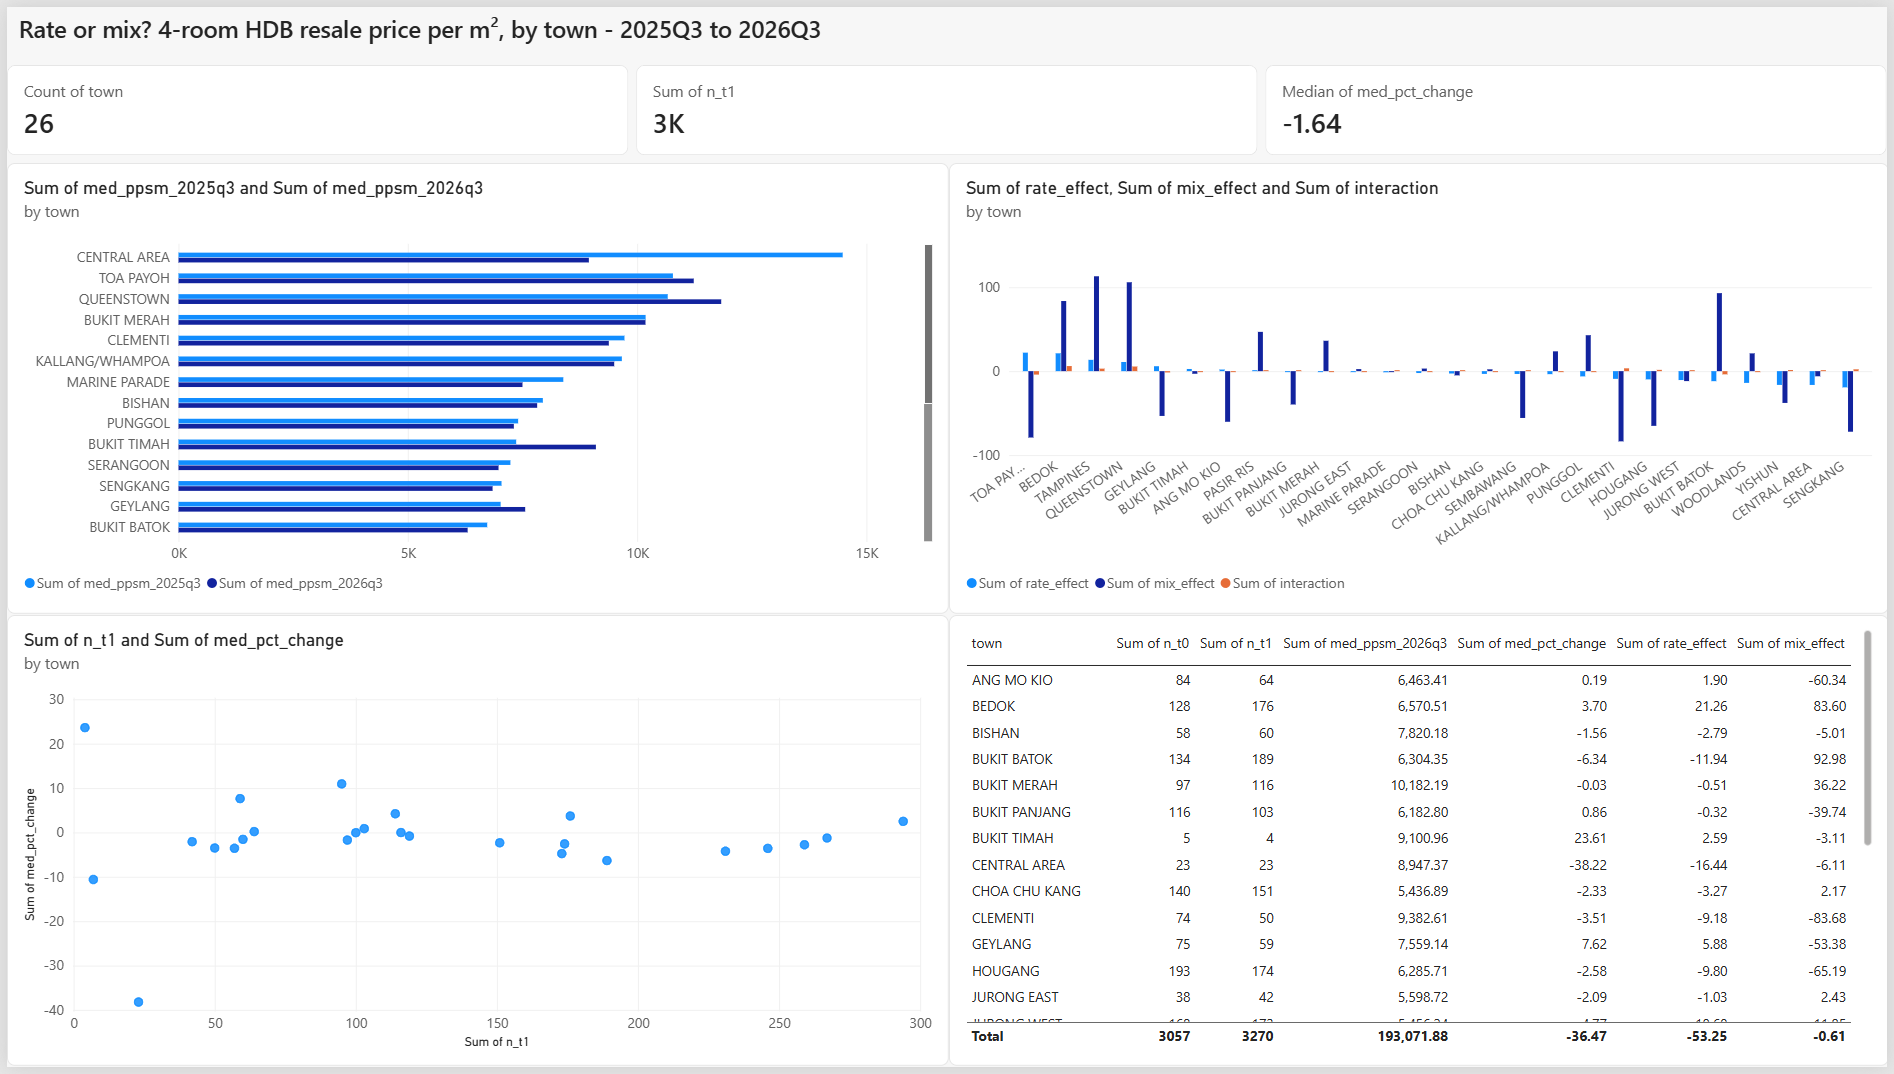
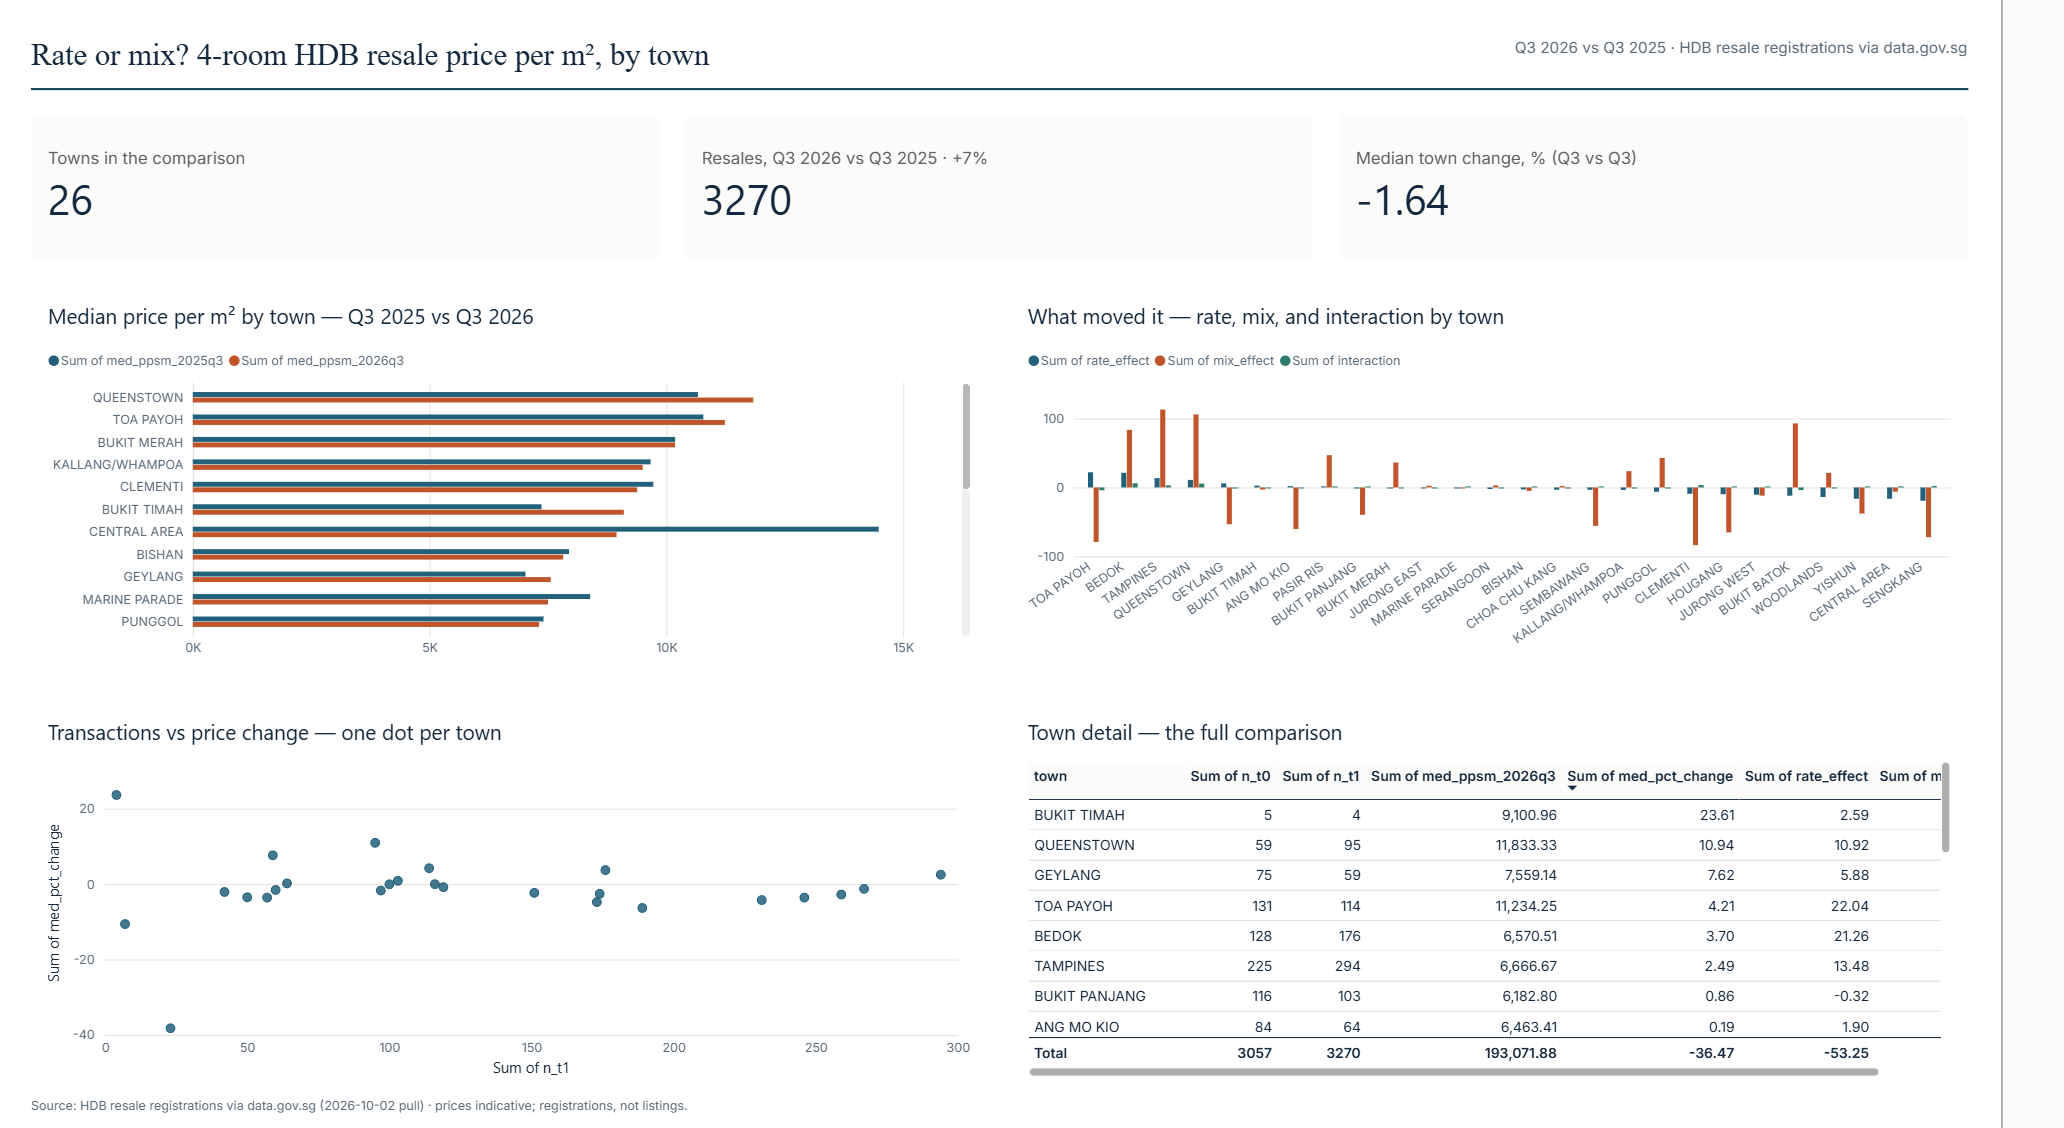
Series beautify: hero v2 + badges + figure gallery; themed Power BI render

diff --git a/README.md b/README.md
@@ -2,6 +2,8 @@
 
 # hdb-resale-mart
 
+[![license: MIT](https://img.shields.io/badge/license-MIT-22607B.svg)](LICENSE) ![Python 3.12](https://img.shields.io/badge/Python-3.12-2E7D6B.svg) ![DuckDB](https://img.shields.io/badge/analytics-DuckDB-C0552B.svg) [![data: data.gov.sg](https://img.shields.io/badge/data-data.gov.sg-14293D.svg)](https://data.gov.sg/datasets/d_8b84c4ee58e3cfc0ece0d773c8ca6abc/view) [![Power BI page](https://img.shields.io/badge/Power%20BI-page%20included-8A6EAF.svg)](bi/README.md)
+
 > **Answer:** 4-room resale price per m² dipped in Q3 2026 vs a year earlier: **−1.3%** on the headline median (S$6,647 → **S$6,559/m²**) and **−0.6%** on the mean basis used for the decomposition — both point the same way (the split needs means because medians are not additive). The move is **within-town, not mix**: rate −53.3 S$/m² vs mix −0.7, interaction +13.3 reported separately. A small dip; a rate story; one quarter.
 
 **Status:** built 2026-10-02. Part of a six-repo series on Singapore's public data.
@@ -15,7 +17,14 @@
 
 ![4-room median price/m² by town — Q3 2026 vs Q3 2025](reports/figures/f1_town_dumbbell.png)
 
-*Also in `reports/figures/`: rolling medians (`f2`), town-mix drift (`f3`), the rate/mix waterfall (`f4`) — plus the Power BI page [`reports/figures/bi_page.png`](reports/figures/bi_page.png) and the half-page [`docs/decision_memo.md`](docs/decision_memo.md).*
+### More views
+
+| | |
+|---|---|
+| [![3-month rolling medians of town price/m²](reports/figures/f2_rolling_median.png)](reports/figures/f2_rolling_median.png) | [![Town-mix drift over the sample](reports/figures/f3_mix_drift.png)](reports/figures/f3_mix_drift.png) |
+| [![Rate/mix waterfall of the national move](reports/figures/f4_waterfall.png)](reports/figures/f4_waterfall.png) | [![The Power BI page for this dataset](reports/figures/bi_page.png)](reports/figures/bi_page.png) |
+
+*Rolling medians (`f2`), town-mix drift (`f3`), the rate/mix waterfall (`f4`), and the Power BI page (`bi_page`) — full size in [`reports/figures/`](reports/figures/) · half-page write-up in [`docs/decision_memo.md`](docs/decision_memo.md).*
 
 ## The question
 

diff --git a/bi/README.md b/bi/README.md
@@ -1,13 +1,13 @@
 # Power BI page — 4-room resale, Q3 2026 vs Q3 2025
 
-Screenshot: [`reports/figures/bi_page.png`](../reports/figures/bi_page.png) — the page built in Power BI Desktop (free) from `outputs/town_4room_yoy.csv` (26 towns, one row per town). A finding strip (title + 26 towns · 3,270 transactions · -1.64% median town change) sits above four visuals:
+Screenshot: [`reports/figures/bi_page.png`](../reports/figures/bi_page.png) — the page built in Power BI Desktop (free) from `outputs/town_4room_yoy.csv` (26 towns, one row per town). A finding strip — three KPI cards: **26 towns** in the comparison · **3,270 resales** (Q3 2026 vs Q3 2025, +7%) · **−1.64%** median town change — sits above four visuals:
 
 1. **Clustered bar** — median price/m² by town, Q3 2025 vs Q3 2026 (`med_ppsm_2025q3` / `med_ppsm_2026q3`)
 2. **Clustered column** — shift-share components by town (`rate_effect`, `mix_effect`, `interaction`)
 3. **Scatter** — transactions vs price change (`n_t1` × `med_pct_change`), one dot per town
 4. **Table** — `town`, `n_t0`, `n_t1`, `med_ppsm_2026q3`, `med_pct_change`, `rate_effect`, `mix_effect`
 
-**Rebuild:** the page is maintained as a Power BI project (`.pbip` — report + semantic model as text files) in my workspace; the committed PNG is its latest rendering. Rebuilding from the CSV alone: Power BI Desktop → Get data → Text/CSV → `outputs/town_4room_yoy.csv` → recreate the fields above. (Original build 2026-10-02 on Power BI Desktop v2.158.1177.0; refreshed 2026-10-03.)
+**Rebuild:** the page is maintained as a Power BI project (`.pbip` — report + semantic model as text files) in my workspace; the committed PNG is its latest rendering. Rebuilding from the CSV alone: Power BI Desktop → Get data → Text/CSV → `outputs/town_4room_yoy.csv` → recreate the fields above. (Original build 2026-10-02 on Power BI Desktop v2.158.1177.0; refreshed 2026-10-03; series-styled the same day — Source Serif 4 / Inter, petrol-led palette, header band + rule, registered as a theme in the project.)
 
 **Notes**
 
